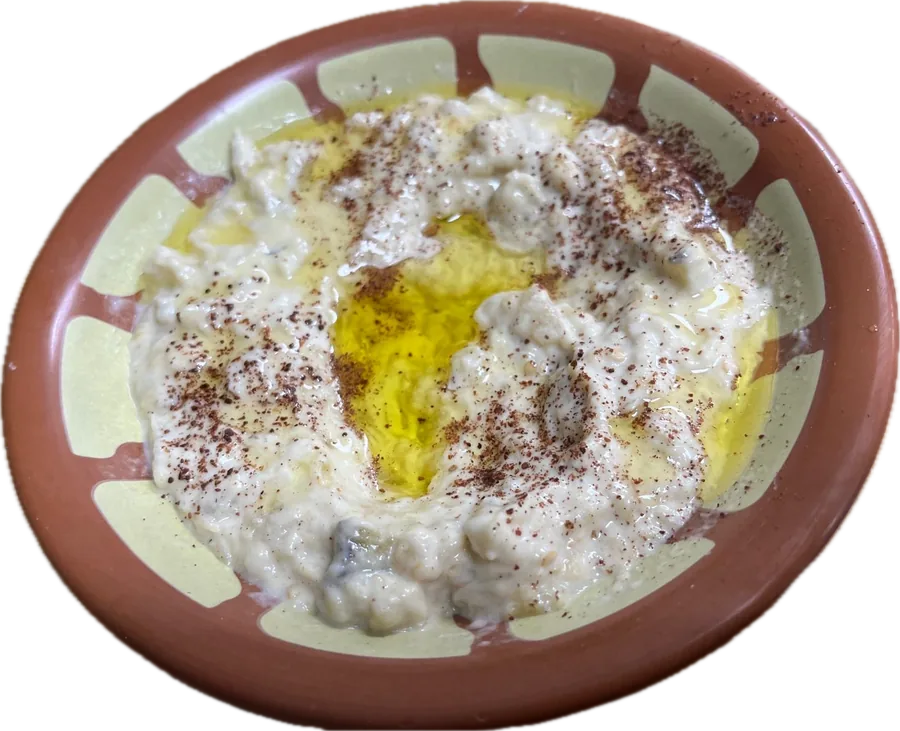
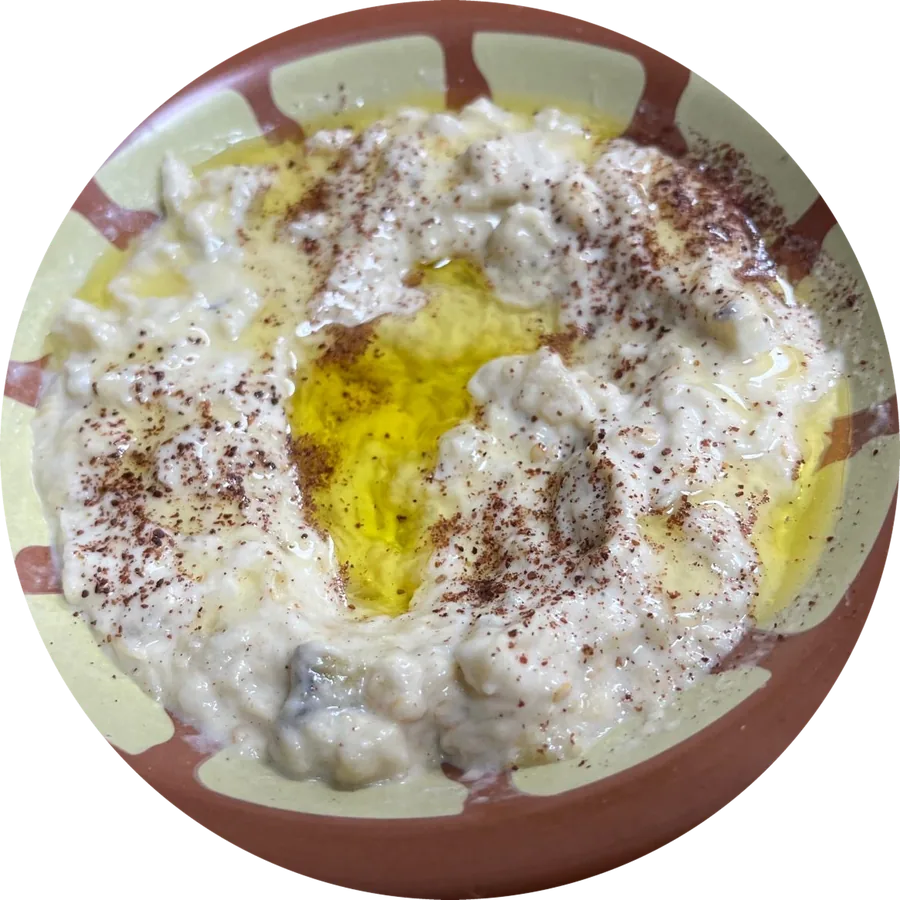
Trim food photos to clean circles so cut-off plate edges don't show

diff --git a/index.html b/index.html
@@ -75,7 +75,7 @@
           </ul>
         </div>
         <div class="hero-photo">
-          <img src="images/hummus.webp" alt="Hummus topped with olive oil, sumac and chickpeas" width="867" height="900" />
+          <img src="images/hummus.webp" alt="Hummus topped with olive oil, sumac and chickpeas" width="900" height="900" />
         </div>
       </div>
     </section>
@@ -107,32 +107,32 @@
         </div>
         <div class="dish-grid">
           <article class="dish">
-            <div class="dish-photo"><img src="images/appetizer-combo.webp" alt="Plate of hummus, baba ghanouj and three falafel with tahini" width="816" height="900" loading="lazy" /></div>
+            <div class="dish-photo"><img src="images/appetizer-combo.webp" alt="Plate of hummus, baba ghanouj and three falafel with tahini" width="900" height="900" loading="lazy" /></div>
             <div class="dish-row"><h3>Appetizer combination plate</h3><span class="price">$10.49</span></div>
             <p>Hummus, baba ghanouj and falafel, served with pita bread.</p>
           </article>
           <article class="dish">
-            <div class="dish-photo"><img src="images/hummus-kofta.webp" alt="Hummus topped with seasoned ground beef, tahini and pickles" width="808" height="900" loading="lazy" /></div>
+            <div class="dish-photo"><img src="images/hummus-kofta.webp" alt="Hummus topped with seasoned ground beef, tahini and pickles" width="900" height="900" loading="lazy" /></div>
             <div class="dish-row"><h3>Hummus with kofta</h3><span class="price">$12.99</span></div>
             <p>Hummus topped with seasoned ground beef, served with pita bread, sauce and pickles.</p>
           </article>
           <article class="dish">
-            <div class="dish-photo"><img src="images/falafel.webp" alt="Crispy falafel with a cup of tahini sauce" width="596" height="900" loading="lazy" /></div>
+            <div class="dish-photo"><img src="images/falafel.webp" alt="Crispy falafel with a cup of tahini sauce" width="900" height="900" loading="lazy" /></div>
             <div class="dish-row"><h3>Falafel</h3><span class="price">$2.75</span></div>
             <p>Three pieces, made from garbanzo beans mixed with vegetables and spices.</p>
           </article>
           <article class="dish">
-            <div class="dish-photo"><img src="images/hummus.webp" alt="Hummus with olive oil, sumac and chickpeas" width="867" height="900" loading="lazy" /></div>
+            <div class="dish-photo"><img src="images/hummus.webp" alt="Hummus with olive oil, sumac and chickpeas" width="900" height="900" loading="lazy" /></div>
             <div class="dish-row"><h3>Hummus</h3><span class="price">$6.49</span></div>
             <p>Served with pita bread.</p>
           </article>
           <article class="dish">
-            <div class="dish-photo"><img src="images/baba-ghanouj.webp" alt="Baba ghanouj with olive oil and sumac" width="900" height="731" loading="lazy" /></div>
+            <div class="dish-photo"><img src="images/baba-ghanouj.webp" alt="Baba ghanouj with olive oil and sumac" width="900" height="900" loading="lazy" /></div>
             <div class="dish-row"><h3>Baba ghanouj</h3><span class="price">$6.99</span></div>
             <p>Eggplant and tahini sauce, served with pita bread.</p>
           </article>
           <article class="dish">
-            <div class="dish-photo"><img src="images/lentil-soup.webp" alt="Bowl of lentil soup topped with sumac" width="758" height="900" loading="lazy" /></div>
+            <div class="dish-photo"><img src="images/lentil-soup.webp" alt="Bowl of lentil soup topped with sumac" width="900" height="900" loading="lazy" /></div>
             <div class="dish-row"><h3>Lentil soup</h3><span class="price">$3.75</span></div>
             <p>Served with pita bread.</p>
           </article>
